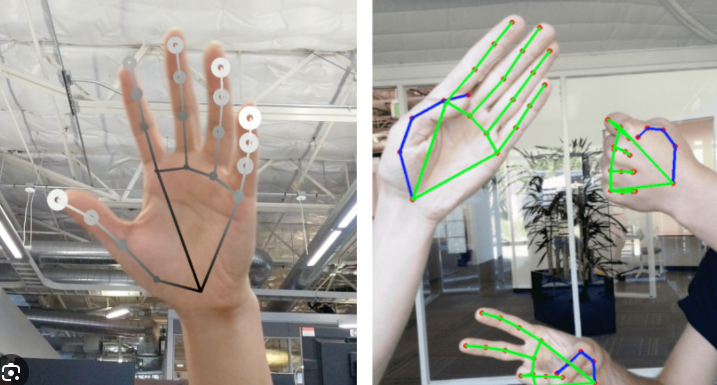
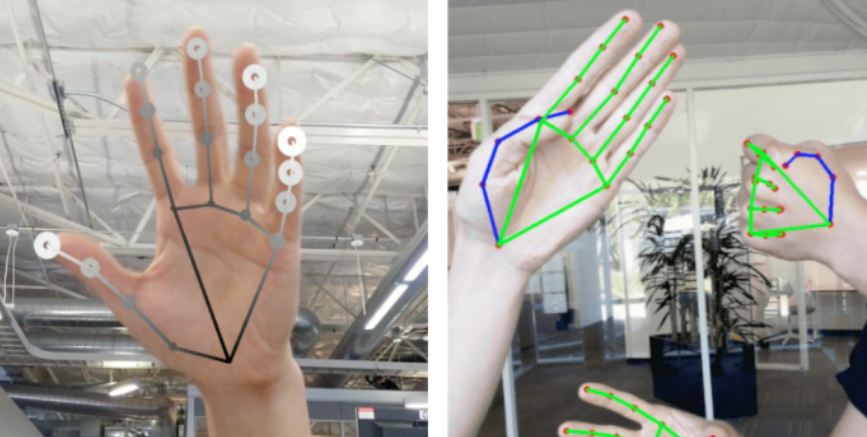
mas proyectos

diff --git a/src/components/Projects.jsx b/src/components/Projects.jsx
@@ -7,6 +7,7 @@ import angus from '../assets/angus.png';
 import gretta from '../assets/gretta.png';
 import horus from '../assets/horus.png';
 import detector from '../assets/detector.png';
+import ia from '../assets/ia.png';
 import TextPressure from './TextPressure';
 
 const Projects = ({ darkMode }) => {
@@ -67,6 +68,19 @@ const Projects = ({ darkMode }) => {
         'Interfaz sin contacto para accesibilidad y control rápido.'
       ],
       github: 'https://github.com/alejoalf/control_gestos'
+    },
+    {
+      title: 'Asistente de Voz Inteligente con Memoria Persistente',
+      description: 'Desarrollo de un asistente virtual de escritorio inspirado en J.A.R.V.I.S., capaz de mantener conversaciones fluidas y naturales mediante voz. Implementa memoria de largo plazo con SQLite para recordar preferencias, proyectos y contextos previos.',
+      image: ia,
+      tags: ['LLMs', 'SQLite', 'Voice'],
+      tech: ['Gemini 1.5', 'Llama 3', 'SQLite', 'TTS/STT', 'Gestión de latencia'],
+      highlights: [
+        'Conversación por voz con contexto persistente entre sesiones.',
+        'Memoria de largo plazo para preferencias y proyectos del usuario.',
+        'Optimización de latencia y manejo de errores de API para respuesta casi instantánea.'
+      ],
+      github: 'https://github.com/alejoalf/Asistente-Con-IA'
     }
 
   ];
